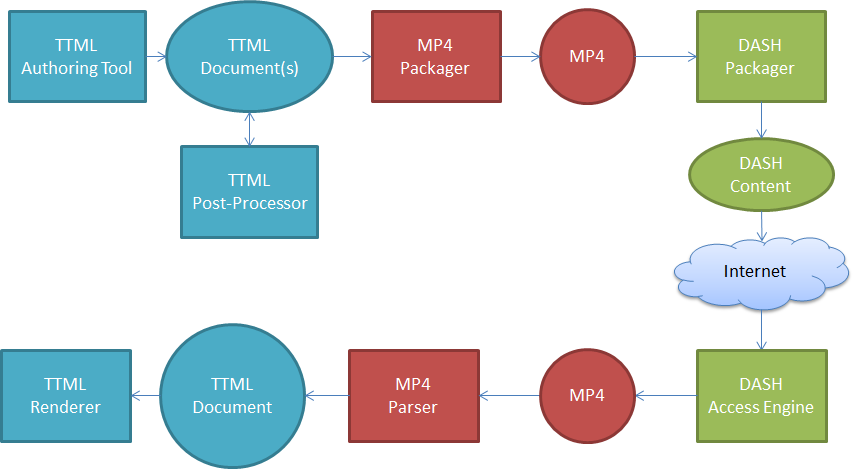
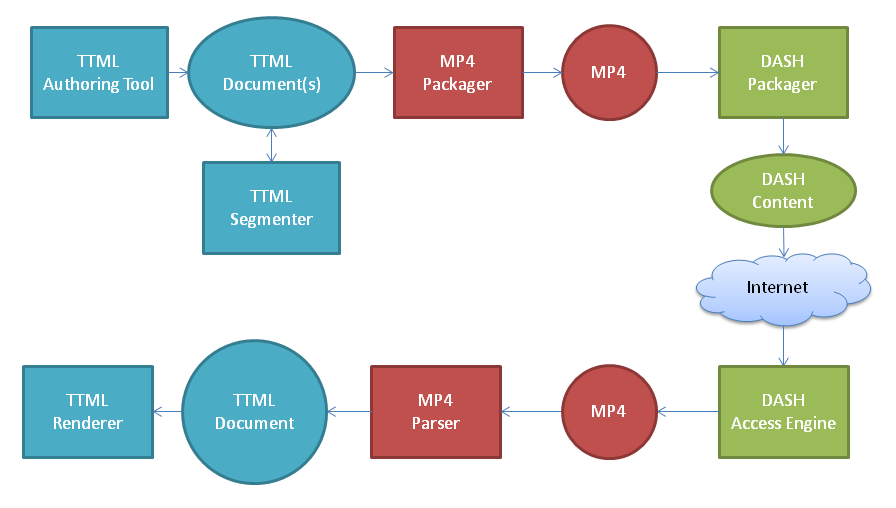
rename "TTML pre-processor" to "TTML Segmenter" #4 https://github.com/rbouqueau/TTML_in_MP4_DASH_statement/issues/4#issuecomment-160963216

Changed region(s): [[0.0, 0.2687, 1.0, 1.0], [0.0, 0.0, 0.9742, 0.5075]]

diff --git a/README.md b/README.md
@@ -37,9 +37,11 @@ Given this workflow, there are several options to produce, package and deliver T
 
 DASH segments are typically of constant duration and aligned across audio and video representations. This is not a strict requirement though. Since TTML content does not have a constant rate of change, segmentation of TTML content may lead to either variable duration segments or to data duplication across segments. Such duplication should be avoided and limited, possibly to the last sample of a segment containing some data that is present in the first sample of the next segment.
 
-#### Need for TTML post-processing
+#### Need for a TTML Segmenter
 
-In above workflow it may be difficult for tools that have only simple TTML capabilities, to process a TTML document for the purpose of creating small, self contained, non-timewise-overlapping TTML documents. The example below shows a TTML document with successive `p` elements overlapping in time. 
+In above workflow it may be difficult for tools that have only simple TTML capabilities, to process a TTML document for the purpose of creating small, self contained, non-timewise-overlapping TTML documents. The TTML Segmenter segments one (or more) TTML input document(s) into output TTML documents, each containing only the timed data needed for presentation within its segment time to avoid unnecessary data duplication
+
+The example below shows a TTML document with successive `p` elements overlapping in time:
 
 ```xml
 <?xml version="1.0" encoding="UTF-8"?>
@@ -67,7 +69,7 @@ In above workflow it may be difficult for tools that have only simple TTML capab
 </tt:tt>
 ```
 
-Some workflows may decide that the TTML Authoring tool will post-process the TTML content to produce those non-timewise-overlapping TTML documents with a fine granularity to support the smallest segment duration and take care of timebase conversions. Such a post-processing tool would make the task of tools down the chain easier. Other workflows may decide to leave the segmentation to tools down the chain like the DASH packager because the segment duration is only known at that level in the workflow. Yet other workflows may use tools in-between to make the TTML authoring DASH-unuware and the DASH processing TTML-unaware. Depending on the design choice, the interface between the tools in the workflow will not be the same.
+Some workflows may decide that the TTML Authoring tool will post-process the TTML content to produce those non-timewise-overlapping TTML documents with a fine granularity to support the smallest segment duration and take care of timebase conversions. Such a post-processing TTML Segmenting tool would make the task of tools down the chain easier. Other workflows may decide to leave the segmentation to tools down the chain like the DASH packager because the segment duration is only known at that level in the workflow. Yet other workflows may use tools in-between to make the TTML authoring DASH-unuware and the DASH processing TTML-unaware. Depending on the design choice, the interface between the tools in the workflow will not be the same.
 
 #### Interface between MP4 Parser and TTML Renderer
 The MP4 standard assumes that only one sample at a time is active. This means that the MP4 parser will deliver one TTML document at a time to the TTML renderer and will assume that the previous TTML document will be replaced by the new one, and that it will be used for a given duration. This standard behavior thus constrains the upper part of the workflow, in the sense that samples cannot overlap in time and therefore the contained TTML document should not overlap in time. This improves interoperability by reducing the number of choices left.
